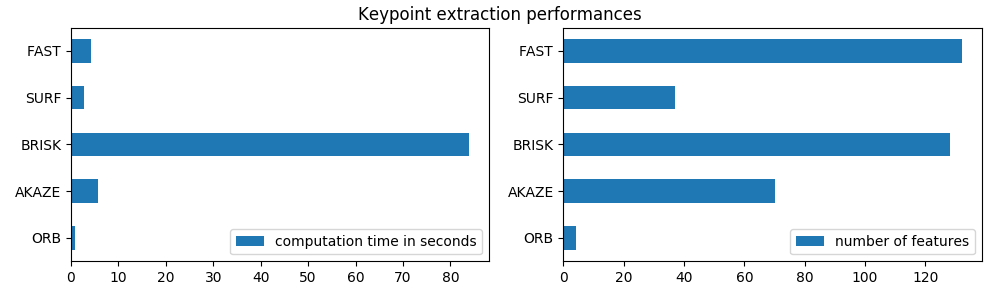
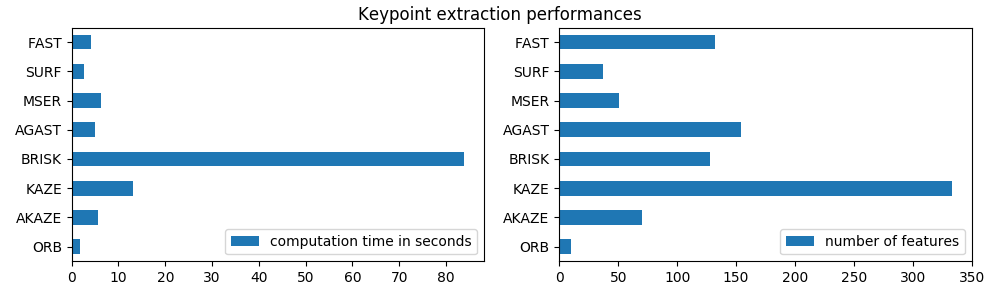
new keypoint detector evaluation

diff --git a/8.best-reference-extract.py b/8.best-reference-extract.py
@@ -9,12 +9,12 @@ from src.spectral_image import *
 from src.keypoint import *
 from src.settings import *
 
-for method in ['KAZE']:
-    references_by_height = []
+def extract_performances(m):
+    print('--------------')
+    print(m)
+    print('--------------')
     
-    print('--------------')
-    print(method)
-    print('--------------')
+    references_by_height = []
     
     for h in height:
         reference_val = []
@@ -23,7 +23,7 @@ for method in ['KAZE']:
             start_time = time.time()
             S = SpectralImage('./data/steep/', str(h))
             loaded, nb_kp = load_spectral_bands(
-                S, method=method, reference=mid
+                S, method=m, reference=mid
             )
             reference_val.append(nb_kp + [(time.time() - start_time)])
         pass
@@ -33,5 +33,23 @@ for method in ['KAZE']:
     pass
 
     references_by_height = np.array(references_by_height)
-    np.save('figures/keypoint-reference-count-'+method+'.npy', references_by_height)
+    
+    np.save('figures/keypoint-reference-count-'+m+'.npy', references_by_height)
+pass
+
+import argparse
+
+if __name__ == "__main__":
+    parser = argparse.ArgumentParser()
+    
+    parser.add_argument(
+        "--methods", type=str, default=all_methods,
+        help="methods to extract", nargs='+',
+        choices=all_methods
+    )
+    
+    args = parser.parse_args()
+
+    for m in args.methods:
+        extract_performances(m)
 pass

diff --git a/src/keypoint.py b/src/keypoint.py
@@ -72,10 +72,12 @@ def keypoint_detect(img1, img2, method='FAST'):
     #print('keypoint detection ...')
     
     detectors = {
-        'ORB'   : partial(cv2.ORB_create, nfeatures=1000), # error
+        'ORB'   : partial(cv2.ORB_create, nfeatures=2000), # error
+        'AGAST' : partial(cv2.AgastFeatureDetector_create, threshold=92, nonmaxSuppression=True),
         'AKAZE' : partial(cv2.AKAZE_create),
         'KAZE'  : partial(cv2.KAZE_create),
-        'BRISK' : partial(cv2.BRISK_create, patternScale=0.1),
+        'MSER'  : partial(cv2.MSER_create),
+        'BRISK' : partial(cv2.BRISK_create, patternScale=.1),
         #'SIFT'  : partial(cv2.xfeatures2d.SIFT_create, nfeatures=1000), # good ~5s
         # exact ~5s (increase parameter for higher precision)
         'SURF'  : partial(cv2.xfeatures2d.SURF_create, hessianThreshold=10, nOctaves=2, nOctaveLayers=1, upright=False),

diff --git a/src/data.py b/src/data.py
@@ -15,4 +15,4 @@ height = np.array([
 bands_text = ['blue', 'green', 'red', 'redge', 'redge-max', 'nir']
 all_bands = [450, 570, 675, 710, 730, 850]
 
-all_methods = ['ORB', 'AKAZE', 'BRISK', 'SURF', 'FAST']
+all_methods = ['ORB', 'AKAZE', 'KAZE', 'BRISK', 'AGAST', 'MSER', 'SURF', 'FAST']

diff --git a/README.md b/README.md
@@ -110,3 +110,4 @@ Future work on spectral correction :
 + https://citius.usc.es/sites/default/files/publicacions_publicaciones/Alignment%20of%20Hyperspectral%20Images%20Using%20KAZE_Features_v2.pdf
 + https://pdfs.semanticscholar.org/25b6/4d89abdd36e0800da4679813935f055846dd.pdf
 + https://www.insticc.org/Primoris/Resources/PaperPdf.ashx?idPaper=75802
++ https://arxiv.org/pdf/1606.03798.pdf
